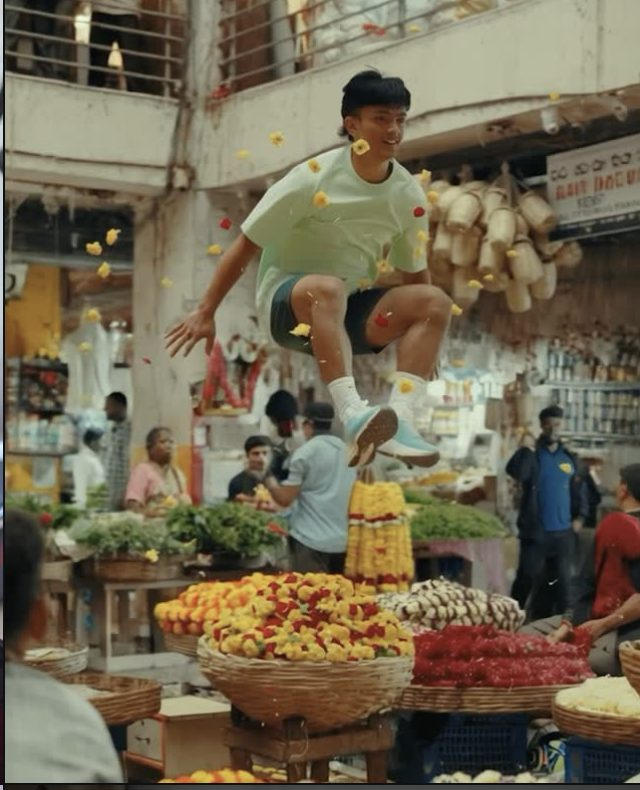
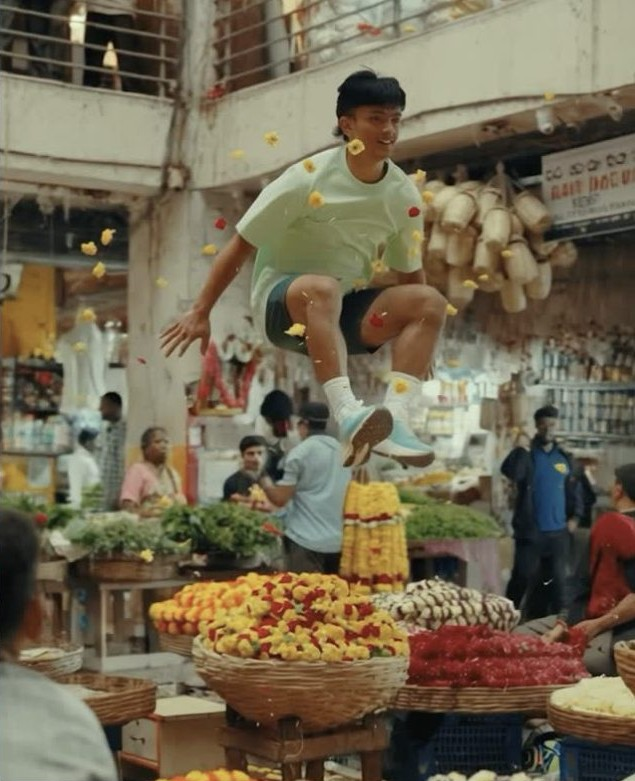
Link hits to Instagram, clean photo edges, rewrite voices section
Claude-Session: https://claude.ai/code/session_01StAm6vktER9v911JmYBSsL

diff --git a/index.html b/index.html
@@ -225,7 +225,7 @@ button:focus-visible,a:focus-visible{outline:3px solid #141414;outline-offset:3p
       <div style="display: flex; flex-direction: column; gap: 8px; min-width: 0;">
         <span style="font-size: 13px;">quick game</span>
         <h2 style="margin: 0; font-family: 'Covered By Your Grace', cursive; font-weight: 400; font-size: clamp(46px, 6vw, 82px); line-height: 1;">which reel did better?</h2>
-        <p style="margin: 0; max-width: 52ch; font-size: 15px;">2 real posts from my feed. tap the one you think got more likes. guessing this right is literally my job.</p>
+        <p style="margin: 0; max-width: 52ch; font-size: 15px;">2 reels i made for cultstore. tap the one you think got more likes. guessing this right is literally my job.</p>
       </div>
       <span style="font-weight: 500; font-size: 15px; background: #141414; color: #F3F3F3; padding: 8px 14px; font-variant-numeric: tabular-nums;">round {{ roundNum }}/5 · score {{ score }}</span>
     </div>
@@ -381,10 +381,10 @@ class Component extends DCLogic {
     this.hits = [
       { tag: "▶ film", img: B + "6d830805b43bcdb17698d8f6a43b2343.jpg", alt: "A blue Cult barefoot shoe being strapped on", meta: "@cultstore · brand film", big: "the barefoot film", cap: "a shoe that feels like wearing nothing. hero film for our barefoot launch.", url: "https://www.instagram.com/p/DeeXC7Jhkbz/" },
       { tag: "✎ words", img: B + "0b93f6caea876cb4294110b51c096f12.jpg", alt: "Beyond with Sharan newsletter on NPS vs EPF", meta: "finance with sharan", big: "nps vs epf", cap: "retirement planning for people who'd rather not think about retirement.", url: "https://cdn.gamma.app/bfzfvhu4t6kvadw/38be9f8c9afc471dbe8579702dcde73b/original/NPS-vs.-EPF.pdf" },
-      { tag: "● irl", img: B + "8f471a7c7f438268fa1bf916a46c54c7.jpg", alt: "Runners at a Cult Run with Indiranagar Run Club", meta: "cult run x indiranagar run club", big: "bangalore showed up", cap: "run clubs, community mornings and medals.", url: "/irl" },
+      { tag: "● irl", img: B + "8f471a7c7f438268fa1bf916a46c54c7.jpg", alt: "Runners at a Cult Run with Indiranagar Run Club", meta: "@cultstore · cult run x irc", big: "bangalore showed up", cap: "our first run with indiranagar run club. small things, big turnout.", url: ig("cultstore", "DUIpHvOiSQO") },
       { tag: "▶ social", img: B + "3686954a3f361cdc097e6e542be3772d.jpg", alt: "World Dance Day reel with ARMA", meta: "@armamusica · apr 26", big: "1,277 likes", cap: "world dance day with arma. 1 dance crew, 1 city, our gear on everyone.", url: ig("armamusica", "DXtJw-LCMAm") },
       { tag: "▶ social", img: B + "b9e2098bf5c175fab39f1327122a6f34.jpg", alt: "Celebrate with movement festive reel", meta: "@cultstore · oct 25", big: "1,161 likes", cap: "#celebratewithmovement. festive season, but make people move.", url: ig("cultstore", "DP_ZGbICdNM") },
-      { tag: "● irl", img: B + "d6bca9ceb49ce251748522cdc2a31853.jpg", alt: "Anirudh at the TEDxSITB sponsor wall", meta: "tedxsitb · organiser", big: "sold out in 1 week", cap: "a team of 25, 10+ sponsors and ₹1.5L+ in revenue.", url: "/irl" },
+      { tag: "● irl", img: B + "e2ef89b1d9c49a374e38c1e82d584016.jpg", alt: "Women flexing at the Cultstore deadlift party with Gym Girls Club", meta: "@cultstore · women's day", big: "the deadlift party", cap: "women's day with gym girls club. loud cheers, heavy lifts. my fav event.", url: ig("cultstore", "DVyMykRCbDz") },
       { tag: "▶ social", img: B + "4784830fe125f53080b2cca350fb9a2a.jpg", alt: "Cult shoe launch reel", meta: "@cultstore · sep 25", big: "922 likes", cap: "the city doesn't wait. neither do we. the cult shoe launch.", url: ig("cultstore", "DOD3QeOCZS1") },
       { tag: "✎ words", img: B + "5e330f83707b16541a444d9f442c5d73.jpg", alt: "Nourish newsletter issue on caffeine", meta: "nourish with sim", big: "is caffeine messing with you?", cap: "a wellness issue that opens with the 3pm crash everyone knows.", url: "https://cdn.gamma.app/bfzfvhu4t6kvadw/94373f88314946f8947ed49d75540dad/original/sim-nws.beehiiv.compcaffeine-messing-with-you.pdf" }
     ];

diff --git a/src/Main.dc.html b/src/Main.dc.html
@@ -215,7 +215,7 @@ button:focus-visible,a:focus-visible{outline:3px solid #141414;outline-offset:3p
       <div style="display: flex; flex-direction: column; gap: 8px; min-width: 0;">
         <span style="font-size: 13px;">quick game</span>
         <h2 style="margin: 0; font-family: 'Covered By Your Grace', cursive; font-weight: 400; font-size: clamp(46px, 6vw, 82px); line-height: 1;">which reel did better?</h2>
-        <p style="margin: 0; max-width: 52ch; font-size: 15px;">2 real posts from my feed. tap the one you think got more likes. guessing this right is literally my job.</p>
+        <p style="margin: 0; max-width: 52ch; font-size: 15px;">2 reels i made for cultstore. tap the one you think got more likes. guessing this right is literally my job.</p>
       </div>
       <span style="font-weight: 500; font-size: 15px; background: #141414; color: #F3F3F3; padding: 8px 14px; font-variant-numeric: tabular-nums;">round {{ roundNum }}/5 · score {{ score }}</span>
     </div>
@@ -369,10 +369,10 @@ class Component extends DCLogic {
     this.hits = [
       { tag: "▶ film", img: B + "6d830805b43bcdb17698d8f6a43b2343", alt: "A blue Cult barefoot shoe being strapped on", meta: "@cultstore · brand film", big: "the barefoot film", cap: "a shoe that feels like wearing nothing. hero film for our barefoot launch.", url: "https://www.instagram.com/p/DeeXC7Jhkbz/" },
       { tag: "✎ words", img: B + "0b93f6caea876cb4294110b51c096f12", alt: "Beyond with Sharan newsletter on NPS vs EPF", meta: "finance with sharan", big: "nps vs epf", cap: "retirement planning for people who'd rather not think about retirement.", url: "https://cdn.gamma.app/bfzfvhu4t6kvadw/38be9f8c9afc471dbe8579702dcde73b/original/NPS-vs.-EPF.pdf" },
-      { tag: "● irl", img: B + "8f471a7c7f438268fa1bf916a46c54c7", alt: "Runners at a Cult Run with Indiranagar Run Club", meta: "cult run x indiranagar run club", big: "bangalore showed up", cap: "run clubs, community mornings and medals.", url: "Irl.dc.html" },
+      { tag: "● irl", img: B + "8f471a7c7f438268fa1bf916a46c54c7", alt: "Runners at a Cult Run with Indiranagar Run Club", meta: "@cultstore · cult run x irc", big: "bangalore showed up", cap: "our first run with indiranagar run club. small things, big turnout.", url: ig("cultstore", "DUIpHvOiSQO") },
       { tag: "▶ social", img: B + "3686954a3f361cdc097e6e542be3772d", alt: "World Dance Day reel with ARMA", meta: "@armamusica · apr 26", big: "1,277 likes", cap: "world dance day with arma. 1 dance crew, 1 city, our gear on everyone.", url: ig("armamusica", "DXtJw-LCMAm") },
       { tag: "▶ social", img: B + "b9e2098bf5c175fab39f1327122a6f34", alt: "Celebrate with movement festive reel", meta: "@cultstore · oct 25", big: "1,161 likes", cap: "#celebratewithmovement. festive season, but make people move.", url: ig("cultstore", "DP_ZGbICdNM") },
-      { tag: "● irl", img: B + "d6bca9ceb49ce251748522cdc2a31853", alt: "Anirudh at the TEDxSITB sponsor wall", meta: "tedxsitb · organiser", big: "sold out in 1 week", cap: "a team of 25, 10+ sponsors and ₹1.5L+ in revenue.", url: "Irl.dc.html" },
+      { tag: "● irl", img: B + "e2ef89b1d9c49a374e38c1e82d584016", alt: "Women flexing at the Cultstore deadlift party with Gym Girls Club", meta: "@cultstore · women's day", big: "the deadlift party", cap: "women's day with gym girls club. loud cheers, heavy lifts. my fav event.", url: ig("cultstore", "DVyMykRCbDz") },
       { tag: "▶ social", img: B + "4784830fe125f53080b2cca350fb9a2a", alt: "Cult shoe launch reel", meta: "@cultstore · sep 25", big: "922 likes", cap: "the city doesn't wait. neither do we. the cult shoe launch.", url: ig("cultstore", "DOD3QeOCZS1") },
       { tag: "✎ words", img: B + "5e330f83707b16541a444d9f442c5d73", alt: "Nourish newsletter issue on caffeine", meta: "nourish with sim", big: "is caffeine messing with you?", cap: "a wellness issue that opens with the 3pm crash everyone knows.", url: "https://cdn.gamma.app/bfzfvhu4t6kvadw/94373f88314946f8947ed49d75540dad/original/sim-nws.beehiiv.compcaffeine-messing-with-you.pdf" }
     ];

diff --git a/words.html b/words.html
@@ -105,8 +105,8 @@ button:focus-visible,a:focus-visible{outline:3px solid #141414;outline-offset:3p
   <div style="max-width: 1240px; margin: 0 auto; padding: 80px clamp(16px, 5vw, 64px); display: flex; flex-direction: column; gap: 28px;">
     <div style="display: flex; flex-direction: column; gap: 8px;">
       <span style="font-size: 13px;">party trick</span>
-      <h2 style="margin: 0; font-family: 'Covered By Your Grace', cursive; font-weight: 400; font-size: clamp(44px, 6vw, 80px); line-height: 1;">1 brief, 3 voices</h2>
-      <p style="margin: 0; max-width: 56ch; font-size: 15px;">the brief: "tell people to start early." pick who's saying it. this is the job: same idea, sounding like the person, never like a template.</p>
+      <h2 style="margin: 0; font-family: 'Covered By Your Grace', cursive; font-weight: 400; font-size: clamp(44px, 6vw, 80px); line-height: 1;">1 brief, 4 voices</h2>
+      <p style="margin: 0; max-width: 56ch; font-size: 15px;">the brief: "sell a ₹2,000 massage gun." pick who's saying it. same product, 4 very different people. writing like each of them is the job.</p>
     </div>
     <div style="display: flex; flex-wrap: wrap; gap: 10px;" role="group" aria-label="Pick a voice">
       <sc-for list="{{ voices }}" as="v" hint-placeholder-count="3">
@@ -161,9 +161,10 @@ class Component extends DCLogic {
     super(props);
     this.state = { v: 0 };
     this.voices = [
-      { label: "a finance creator", who: "finance newsletter, sunday edition", text: "₹5K a month at 25 can beat ₹15K a month at 35. compounding is unfair like that. start this payday." },
-      { label: "a wellness newsletter", who: "wellness newsletter, morning issue", text: "you don't need a 30-day reset. you need water before chai and a walk before 9. start tomorrow, start small." },
-      { label: "a fitness brand", who: "fitness brand, instagram caption", text: "the best time to start was last year. the second best is this sunday's run. see you at the start line." }
+      { label: "a finance creator", who: "finance newsletter · sunday edition", text: "1 physio session: ₹1,200. you'll need 6. this costs ₹2,000 once and lives on your desk. it pays for itself by week 2, which is a better return than your fd." },
+      { label: "a wellness newsletter", who: "wellness newsletter · 9pm issue", text: "that knot between your shoulder blades has been there since march. you've basically named it. give it 2 minutes tonight, phone in the other room. it's waited long enough." },
+      { label: "a fitness brand", who: "fitness brand · instagram caption", text: "leg day ended yesterday. your legs didn't get the memo. 2 minutes with the kinetic and the stairs stop being a negotiation. ₹2,000, link in bio." },
+      { label: "a desi mom", who: "family whatsapp group · 6:47am", text: "beta papa bought massage machine. ₹2,000 only. since 3 days he is not giving it to anyone, even dog is waiting in line. forwarding link. reply ok when seen 🙏" }
     ];
   }
   renderVals() {

diff --git a/src/Words.dc.html b/src/Words.dc.html
@@ -95,8 +95,8 @@ button:focus-visible,a:focus-visible{outline:3px solid #141414;outline-offset:3p
   <div style="max-width: 1240px; margin: 0 auto; padding: 80px clamp(16px, 5vw, 64px); display: flex; flex-direction: column; gap: 28px;">
     <div style="display: flex; flex-direction: column; gap: 8px;">
       <span style="font-size: 13px;">party trick</span>
-      <h2 style="margin: 0; font-family: 'Covered By Your Grace', cursive; font-weight: 400; font-size: clamp(44px, 6vw, 80px); line-height: 1;">1 brief, 3 voices</h2>
-      <p style="margin: 0; max-width: 56ch; font-size: 15px;">the brief: "tell people to start early." pick who's saying it. this is the job: same idea, sounding like the person, never like a template.</p>
+      <h2 style="margin: 0; font-family: 'Covered By Your Grace', cursive; font-weight: 400; font-size: clamp(44px, 6vw, 80px); line-height: 1;">1 brief, 4 voices</h2>
+      <p style="margin: 0; max-width: 56ch; font-size: 15px;">the brief: "sell a ₹2,000 massage gun." pick who's saying it. same product, 4 very different people. writing like each of them is the job.</p>
     </div>
     <div style="display: flex; flex-wrap: wrap; gap: 10px;" role="group" aria-label="Pick a voice">
       <sc-for list="{{ voices }}" as="v" hint-placeholder-count="3">
@@ -149,9 +149,10 @@ class Component extends DCLogic {
     super(props);
     this.state = { v: 0 };
     this.voices = [
-      { label: "a finance creator", who: "finance newsletter, sunday edition", text: "₹5K a month at 25 can beat ₹15K a month at 35. compounding is unfair like that. start this payday." },
-      { label: "a wellness newsletter", who: "wellness newsletter, morning issue", text: "you don't need a 30-day reset. you need water before chai and a walk before 9. start tomorrow, start small." },
-      { label: "a fitness brand", who: "fitness brand, instagram caption", text: "the best time to start was last year. the second best is this sunday's run. see you at the start line." }
+      { label: "a finance creator", who: "finance newsletter · sunday edition", text: "1 physio session: ₹1,200. you'll need 6. this costs ₹2,000 once and lives on your desk. it pays for itself by week 2, which is a better return than your fd." },
+      { label: "a wellness newsletter", who: "wellness newsletter · 9pm issue", text: "that knot between your shoulder blades has been there since march. you've basically named it. give it 2 minutes tonight, phone in the other room. it's waited long enough." },
+      { label: "a fitness brand", who: "fitness brand · instagram caption", text: "leg day ended yesterday. your legs didn't get the memo. 2 minutes with the kinetic and the stairs stop being a negotiation. ₹2,000, link in bio." },
+      { label: "a desi mom", who: "family whatsapp group · 6:47am", text: "beta papa bought massage machine. ₹2,000 only. since 3 days he is not giving it to anyone, even dog is waiting in line. forwarding link. reply ok when seen 🙏" }
     ];
   }
   renderVals() {

diff --git a/builds.html b/builds.html
@@ -228,7 +228,7 @@ class Component extends DCLogic {
       { img: B + "1149697e764e123c4e270d21549f60e8.jpg", alt: "Team receiving an ideathon cheque", cap: "won a few ideathons", ar: "4/5" },
       { img: B + "dd415fdd5a4c2addc0f5a3c10b5ace23.jpg", alt: "Student council ID card", cap: "council, final year. chaos, professionally.", ar: "4/3" },
       { img: B + "e846d2b183a07b15e9ddb18c3174888a.jpg", alt: "Anirudh receiving an award on stage", cap: "ran a mun to complete the checklist", ar: "4/3" },
-      { img: B + "0b2d03dc30071b0b86992bd8644c2c28.jpg", alt: "Anirudh in a Cult massager ad end slate", cap: "also moonlighting as an endslate", ar: "3/4" },
+      { img: B + "0b2d03dc30071b0b86992bd8644c2c28.jpg", alt: "Anirudh in a Cult massager ad end slate", cap: "also moonlighting as an endslate", ar: "16/9" },
       { img: B + "aba212eb347258d924fef29429f1c1af.jpg", alt: "Anirudh flexing behind the bar at Social", cap: "side hobby lol? behind the bar at social", ar: "3/4" },
       { img: B + "93d3157d16d084af40bfca6e24430e89.jpg", alt: "Anirudh with a YouTube Creator Collective bag outside the Google office", cap: "at the google event. youtube creator collective.", ar: "9/16" },
       { img: B + "d2a4d41e828990564e18d438d643672b.jpg", alt: "Anirudh reading in a bookstore", cap: "reading drama", ar: "3/4" },

diff --git a/src/Builds.dc.html b/src/Builds.dc.html
@@ -216,7 +216,7 @@ class Component extends DCLogic {
       { img: B + "1149697e764e123c4e270d21549f60e8", alt: "Team receiving an ideathon cheque", cap: "won a few ideathons", ar: "4/5" },
       { img: B + "dd415fdd5a4c2addc0f5a3c10b5ace23", alt: "Student council ID card", cap: "council, final year. chaos, professionally.", ar: "4/3" },
       { img: B + "e846d2b183a07b15e9ddb18c3174888a", alt: "Anirudh receiving an award on stage", cap: "ran a mun to complete the checklist", ar: "4/3" },
-      { img: B + "0b2d03dc30071b0b86992bd8644c2c28", alt: "Anirudh in a Cult massager ad end slate", cap: "also moonlighting as an endslate", ar: "3/4" },
+      { img: B + "0b2d03dc30071b0b86992bd8644c2c28", alt: "Anirudh in a Cult massager ad end slate", cap: "also moonlighting as an endslate", ar: "16/9" },
       { img: B + "aba212eb347258d924fef29429f1c1af", alt: "Anirudh flexing behind the bar at Social", cap: "side hobby lol? behind the bar at social", ar: "3/4" },
       { img: B + "93d3157d16d084af40bfca6e24430e89", alt: "Anirudh with a YouTube Creator Collective bag outside the Google office", cap: "at the google event. youtube creator collective.", ar: "9/16" },
       { img: B + "d2a4d41e828990564e18d438d643672b", alt: "Anirudh reading in a bookstore", cap: "reading drama", ar: "3/4" },
